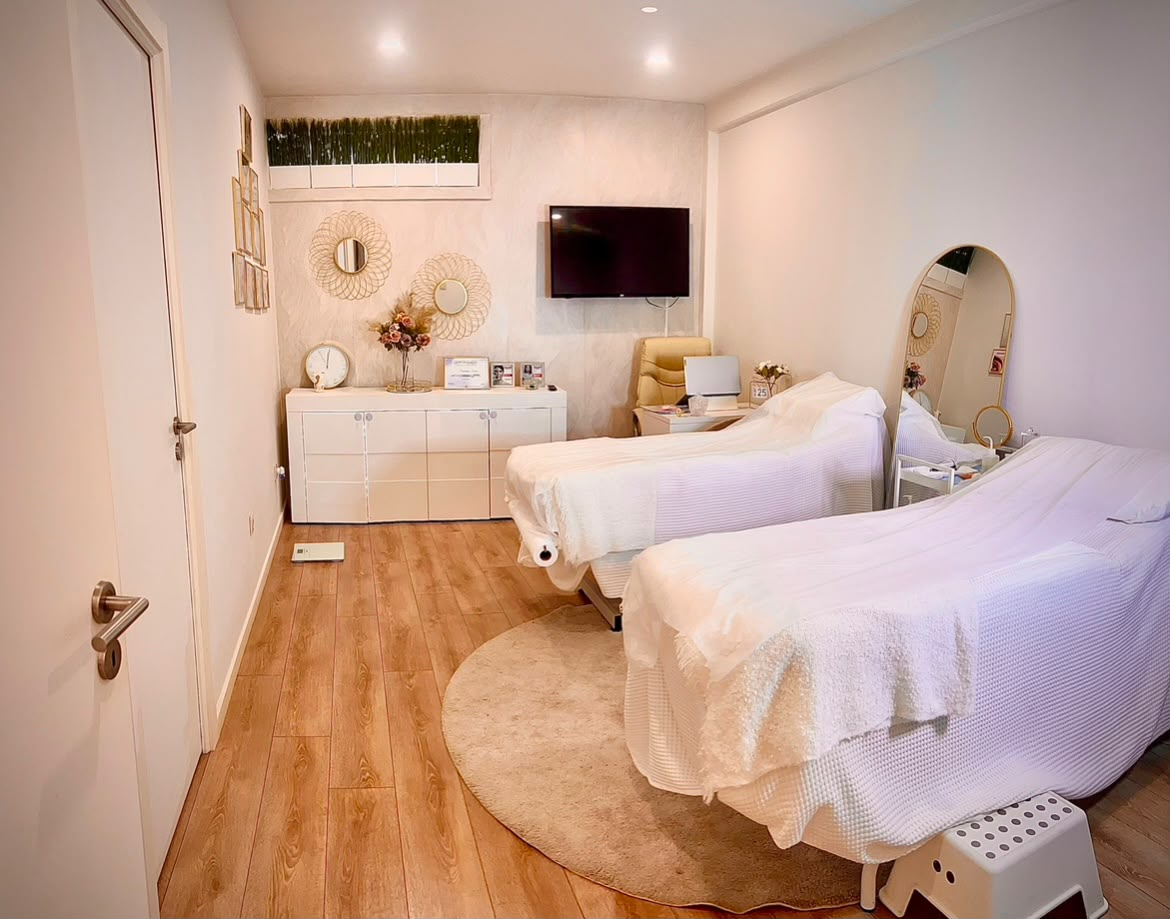
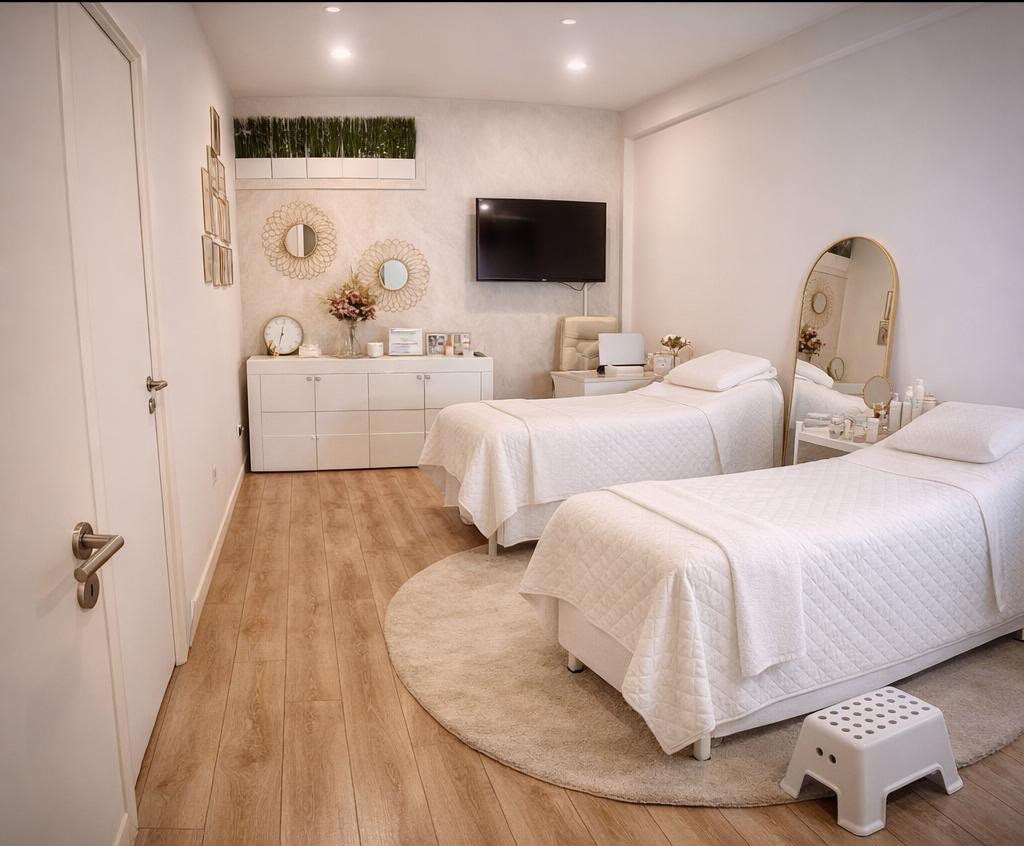
upgrade

diff --git a/index.html b/index.html
@@ -156,9 +156,9 @@
 
       <div id="gallery-desktop" class="gallery-grid">
         <!-- Página 1 (inicial) -->
-        <img src="./assets/img/fachada.jpeg" class="gallery-photo">
+        <!-- <img src="./assets/img/fachada.jpeg" class="gallery-photo">
         <img src="./assets/img/manicure.jpeg" class="gallery-photo">
-        <img src="./assets/img/sala-rosa.jpeg" class="gallery-photo">
+        <img src="./assets/img/sala-rosa.jpeg" class="gallery-photo"> -->
       </div>
 
       <button class="arrow arrow-right" onclick="trocarGaleria('next')">❯</button>

diff --git a/assets/css/styles.css b/assets/css/styles.css
@@ -2033,12 +2033,30 @@ body {
 }
 
 
-
 /* ESCONDER GALERIA DESKTOP NO MOBILE */
 @media (max-width: 899px) {
   .gallery-desktop-wrapper {
     display: none !important;
   }
+}
+
+
+
+/* GALERIA DESKTOP — 3 FOTOS POR PÁGINA  O Seu Lugar de Beleza Completa*/
+.gallery-grid {
+    display: grid !important;
+    grid-template-columns: repeat(3, 1fr) !important;
+    gap: 20px !important;
+    width: 100%;
+    max-width: 1400px;
+    margin: 0 auto;
+}
+
+.gallery-photo {
+    width: 100%;
+    height: 570px;
+    object-fit: cover;
+    border-radius: 14px;
 }
 
 
